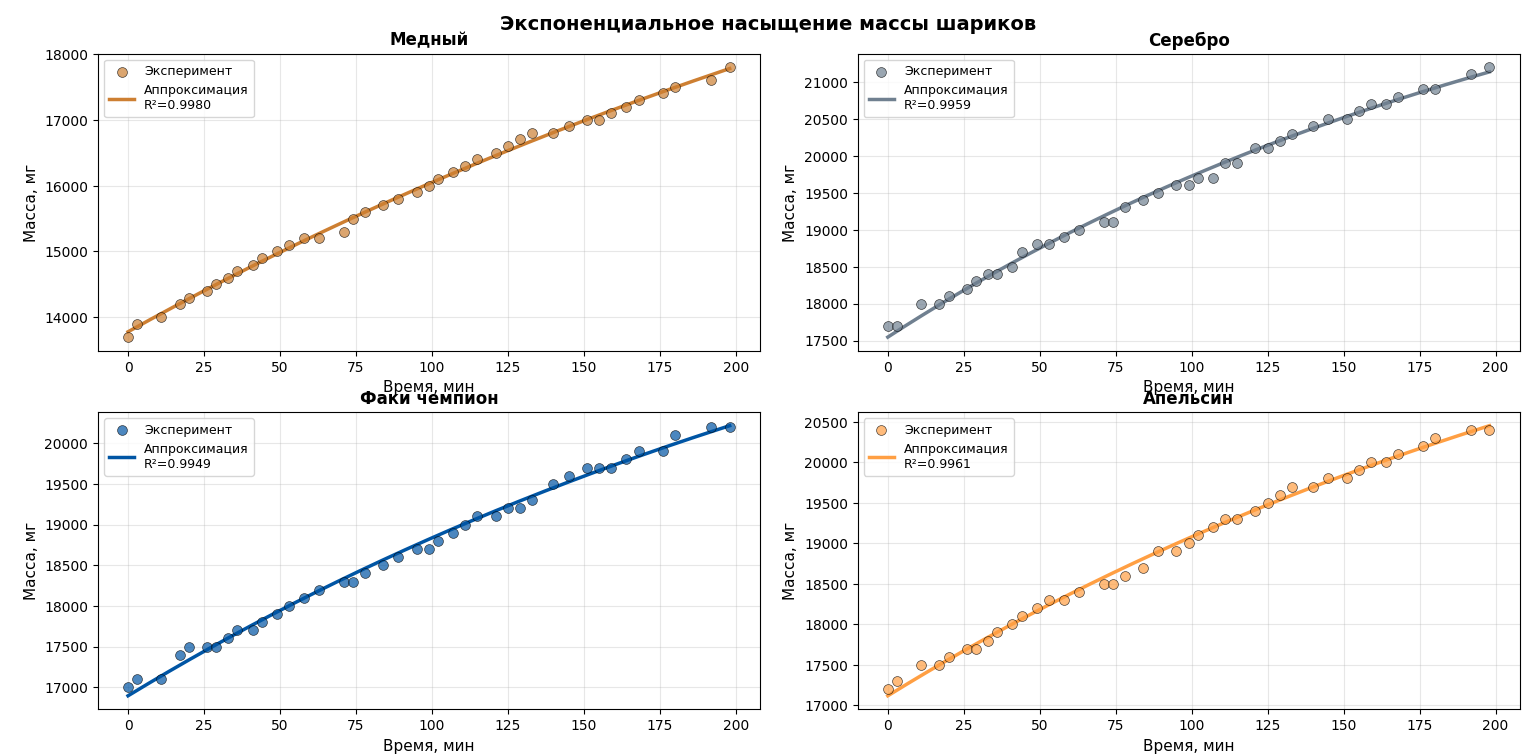
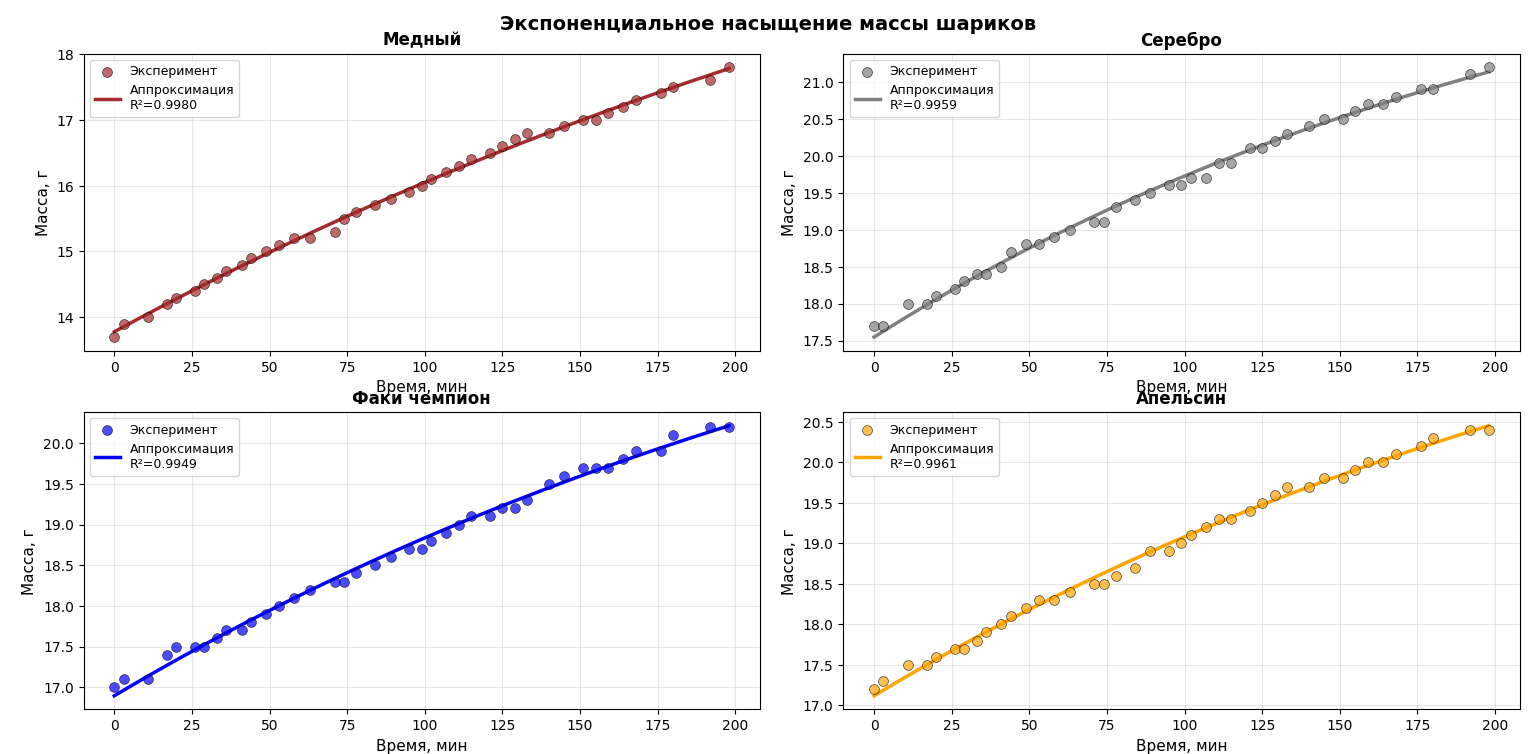
поправила графички

diff --git a/mass_1.py b/mass_1.py
@@ -45,7 +45,7 @@ apelsin_mg = apelsin_g * 1000
 
 names = ['Медный', 'Серебро', 'Факи чемпион', 'Апельсин']
 data_series = [medny_mg, serebro_mg, faki_mg, apelsin_mg]
-colors = ['#CD7F32', '#708090', '#0055A4', '#FF9F43']
+colors = ['brown', 'gray', 'blue', 'orange']
 
 
 def calculate_r2(y_true, y_pred):
@@ -105,7 +105,7 @@ for mass, name in zip(data_series, names):
     results[name] = analyze_linearized(time_s, mass, name, m_final_mg)
 
 # ============================================================
-# ОКНО 1: Экспоненциальное насыщение (4 графика 2x2)
+# ОКНО 1: Экспоненциальное насыщение (4 графика 2x2) - В ГРАММАХ
 # ============================================================
 fig1, axes1 = plt.subplots(2, 2, figsize=(14, 10))
 axes1 = axes1.flatten()
@@ -116,16 +116,18 @@ for i, (mass, name, color) in enumerate(zip(data_series, names, colors)):
     delta_m_0 = results[name]['delta_m_0']
     m_final = results[name]['m_final']
 
-    ax.scatter(time_min, mass, c=color, alpha=0.7, label='Эксперимент', s=50, zorder=5, edgecolors='black',
+    # Переводим в граммы для отображения
+    ax.scatter(time_min, mass / 1000, c=color, alpha=0.7, label='Эксперимент', s=50, zorder=5, edgecolors='black',
                linewidth=0.5)
 
     t_fit_min = np.linspace(time_min.min(), time_min.max(), 500)
     t_fit_s = t_fit_min * 60
     y_fit = m_final - delta_m_0 * np.exp(-k * t_fit_s)
-    ax.plot(t_fit_min, y_fit, '-', c=color, linewidth=2.5, label=f'Аппроксимация\nR²={results[name]["r2_mass"]:.4f}')
+    ax.plot(t_fit_min, y_fit / 1000, '-', c=color, linewidth=2.5,
+            label=f'Аппроксимация\nR²={results[name]["r2_mass"]:.4f}')
 
     ax.set_xlabel('Время, мин', fontsize=11)
-    ax.set_ylabel('Масса, мг', fontsize=11)
+    ax.set_ylabel('Масса, г', fontsize=11)  # Изменили на граммы
     ax.set_title(f'{name}', fontsize=12, fontweight='bold')
     ax.legend(fontsize=9)
     ax.grid(True, alpha=0.3)
@@ -203,7 +205,7 @@ plt.tight_layout()
 plt.show()
 
 # ============================================================
-# ОКНО 4: Сводный график насыщения (все шарики)
+# ОКНО 4: Сводный график насыщения (все шарики) - В ГРАММАХ
 # ============================================================
 fig4, ax4 = plt.subplots(figsize=(12, 8))
 
@@ -212,16 +214,17 @@ for mass, name, color in zip(data_series, names, colors):
     delta_m_0 = results[name]['delta_m_0']
     m_final = results[name]['m_final']
 
-    ax4.scatter(time_min, mass, c=color, alpha=0.6, label=f'{name} (эксп.)', s=40, zorder=5, edgecolors='black',
+    # Переводим в граммы для отображения
+    ax4.scatter(time_min, mass / 1000, c=color, alpha=0.6, label=f'{name} (эксп.)', s=40, zorder=5, edgecolors='black',
                 linewidth=0.5)
 
     t_fit_min = np.linspace(time_min.min(), time_min.max(), 500)
     t_fit_s = t_fit_min * 60
     y_fit = m_final - delta_m_0 * np.exp(-k * t_fit_s)
-    ax4.plot(t_fit_min, y_fit, '-', c=color, linewidth=2.5, label=f'{name} (аппрок.)', alpha=0.8)
+    ax4.plot(t_fit_min, y_fit / 1000, '-', c=color, linewidth=2.5, label=f'{name} (аппрок.)', alpha=0.8)
 
 ax4.set_xlabel('Время, мин', fontsize=12)
-ax4.set_ylabel('Масса, мг', fontsize=12)
+ax4.set_ylabel('Масса, г', fontsize=12)  # Изменили на граммы
 ax4.set_title('Все шарики: Экспоненциальное насыщение', fontsize=14, fontweight='bold')
 ax4.legend(fontsize=10)
 ax4.grid(True, alpha=0.3)
@@ -245,7 +248,7 @@ for name, color in zip(names, colors):
 
 ax5.set_xlabel('Время, мин', fontsize=12)
 ax5.set_ylabel('dm/dt, мг/с', fontsize=12)
-ax5.set_title('Все шарики: Производная массы', fontsize=14, fontweight='bold')
+ax5.set_title('Все шарики: Скорость сдувания', fontsize=14, fontweight='bold')
 ax5.legend(fontsize=10)
 ax5.grid(True, alpha=0.3)
 plt.tight_layout()
@@ -292,7 +295,7 @@ for name in names:
     tau = results[name]['tau']
     r2_lin = results[name]['r2_linear']
     r2_mass = results[name]['r2_mass']
-    print(f"{name:<15} {k:<20.6f} {k_err:<15.6f} {tau / 60:<12.1f} {r2_lin:<12.6f} {r2_mass:<12.6f}")
+    print(f"{name:<15} {k:<20.8f} {k_err:<15.8f} {tau / 60:<12.1f} {r2_lin:<12.6f} {r2_mass:<12.6f}")
 
 print("\n" + "=" * 100)
 print("МЕТОД ОПРЕДЕЛЕНИЯ k:")